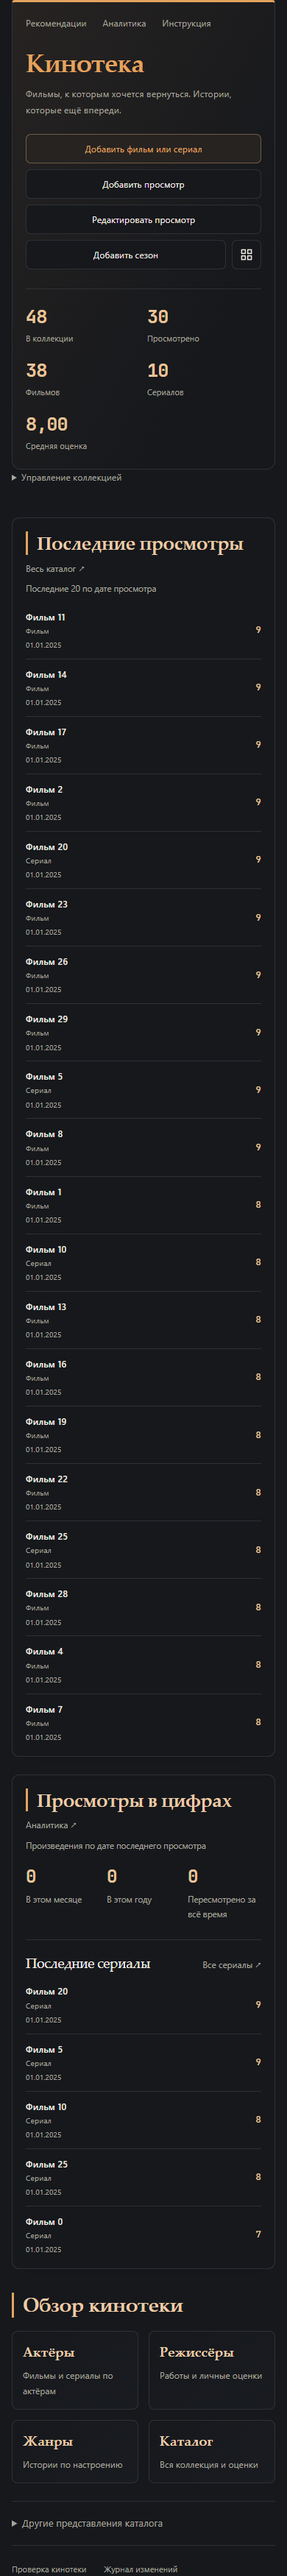
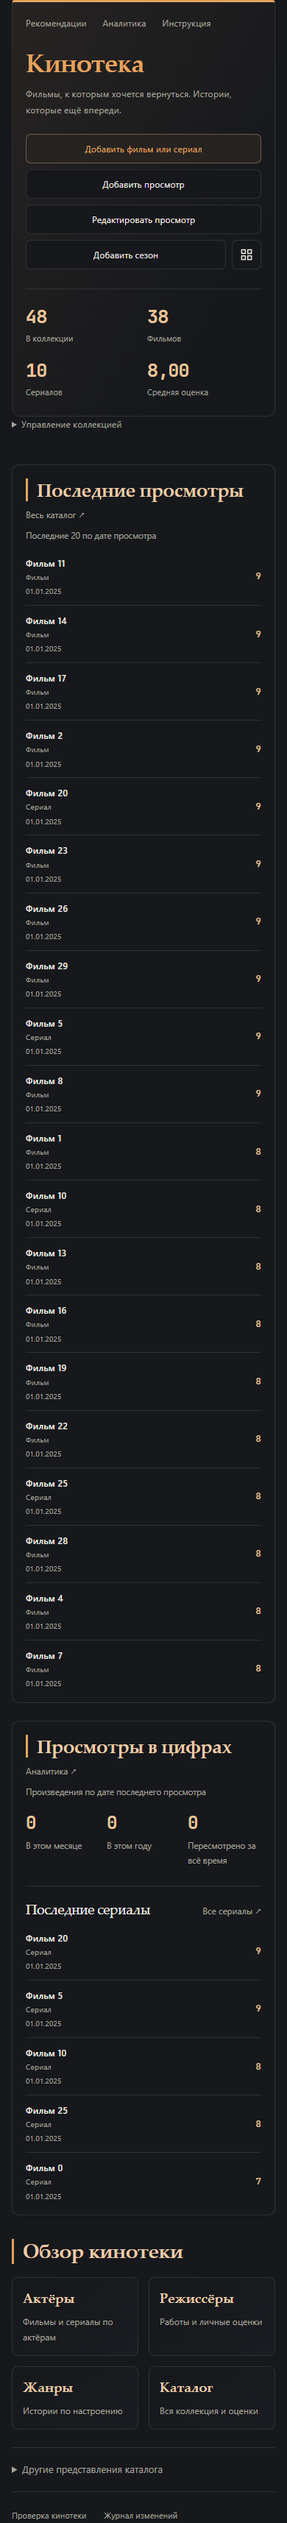
vault backup: 2026-10-09 22:08:19

diff --git a/Кино/_system/kino_home.js b/Кино/_system/kino_home.js
@@ -158,7 +158,7 @@ module.exports = async ({ dv, app, obsidian = {} }) => {
         }
         catalogue.replaceChildren(icon);
         const stats = el(masthead, 'div', 'kino-home-stats'), statValues = [];
-        for (const [key, label] of [['total', 'В коллекции'], ['watched', 'Просмотрено'], ['movies', 'Фильмов'], ['serials', 'Сериалов'], ['average', 'Средняя оценка']]) {
+        for (const [key, label] of [['total', 'В коллекции'], ['movies', 'Фильмов'], ['serials', 'Сериалов'], ['average', 'Средняя оценка']]) {
             const cell = el(stats, 'div', 'kino-home-stat'), value = el(cell, 'strong'); value.dataset.stat = key;
             el(cell, 'span', '', label); statValues.push([key, value]);
         }
@@ -208,7 +208,7 @@ module.exports = async ({ dv, app, obsidian = {} }) => {
         function draw() {
             if (disposed) return;
             const items = media(), scores = items.map(item => item.score).filter(value => value != null);
-            const values = { total: items.length, watched: items.filter(item => item.fields['Просмотрено'] != null).length, movies: items.filter(item => item.movie).length, serials: items.filter(item => item.serial).length,
+            const values = { total: items.length, movies: items.filter(item => item.movie).length, serials: items.filter(item => item.serial).length,
                 average: scores.length ? (scores.reduce((sum, value) => sum + value, 0) / scores.length).toFixed(2).replace('.', ',') : '—' };
             for (const [key, node] of statValues) node.textContent = String(values[key]);
             const now = new Date(), periods = {

diff --git a/Кино/_system/kino-home.css b/Кино/_system/kino-home.css
@@ -42,7 +42,7 @@
 .kino-home-ui.kino-home-ui .kino-home-action[aria-disabled="true"] { opacity: .5; cursor: wait; }
 .kino-home-ui.kino-home-ui .kino-home-action.is-icon { flex: 0 0 40px; width: 40px; height: 40px; padding: 0; }
 .kino-home-ui.kino-home-ui .kino-home-action.is-icon svg { display: block; width: 20px; height: 20px; }
-.kino-home-ui.kino-home-ui .kino-home-stats { display: grid; grid-template-columns: repeat(5,minmax(0,1fr)); border-top: 1px solid var(--home-line); gap: 16px; padding: 22px 0; }
+.kino-home-ui.kino-home-ui .kino-home-stats { display: grid; grid-template-columns: repeat(4,minmax(0,1fr)); border-top: 1px solid var(--home-line); gap: 16px; padding: 22px 0; }
 .kino-home-ui.kino-home-ui .kino-home-stat { display: flex; flex-direction: column; gap: 5px; min-width: 0; }
 .kino-home-ui.kino-home-ui .kino-home-stat strong { font: 700 28px/1.2 var(--home-numbers); color: var(--home-number-color) !important; font-variant-numeric: lining-nums tabular-nums; letter-spacing: -.035em; }
 .kino-home-ui.kino-home-ui .kino-home-stat span { font-size: .7em; color: var(--text-muted); overflow-wrap: anywhere; }

diff --git a/Книги/_system/library_home.js b/Книги/_system/library_home.js
@@ -137,7 +137,7 @@ module.exports = async ({ dv, app, obsidian = {} }) => {
         try { if (!disposed) await renderer({ dv: scope, app, obsidian, ...options }); }
         catch (problem) { if (!disposed) el(container, 'p', 'book-home-widget-error', `Не удалось загрузить блок: ${problem.message || problem}`); }
     }
-    const recent = panel(root, 'Недавние произведения', 'book-home-recent', 'Весь каталог ↗', 'Книги/_system/_Книги.base#Список');
+    const recent = panel(root, 'Недавние произведения', 'book-home-recent', 'Весь каталог ↗', 'Книги/_system/_Книги.base#Все');
     el(recent.head, 'p', 'book-home-caption', 'Последние 20 по дате чтения');
     const reading = panel(root, 'Чтение в цифрах', 'book-home-reading', 'Все итоги ↗', 'Книги/_system/Итоги чтения');
     const overviews = el(root, 'section', 'book-home-overviews'); el(overviews, 'h2', '', 'Обзор библиотеки');

diff --git a/Книги/_system/Как пользоваться.md b/Книги/_system/Как пользоваться.md
@@ -20,7 +20,7 @@ obsidianUIMode: preview
 
 ## Каталог и обзоры
 
-На главной показаны последние 20 произведений. [[Книги/_system/_Книги.base#Список|Весь каталог]] открывает компактный список; [[Книги/_system/_Книги.base#Все|Подробная таблица]] — все свойства. Есть виды «Любимые», «Без оценки», «По году» и «По типу».
+На главной показаны последние 20 произведений. [[Книги/_system/_Книги.base#Все|Весь каталог]] открывает таблицу со всеми свойствами, сгруппированную по авторам. Есть виды «Любимые», «Без оценки», «По году» и «По типу».
 
 Нажатие на автора или серию создаёт постоянную страницу обзора. Две вкладки сохраняют собственный контекст. Личные заметки пиши в разделе под обзором, за пределами служебных маркеров: обновляется только обзор.
 

diff --git a/Книги/_index.md b/Книги/_index.md
@@ -32,7 +32,7 @@ if (file) {
 
 ## Недавние произведения
 
-Последние 20 по дате чтения. [[Книги/_system/_Книги.base#Все|Подробная таблица]] · [[Книги/_system/_Книги.base#Список|Весь каталог]]
+Последние 20 по дате чтения. [[Книги/_system/_Книги.base#Все|Подробная таблица]] · [[Книги/_system/_Книги.base#Все|Весь каталог]]
 
 
 ## Чтение в цифрах
